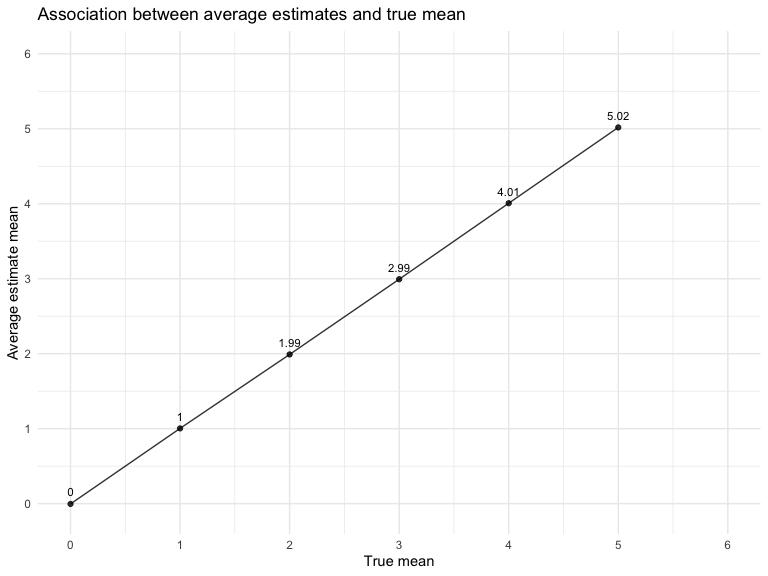
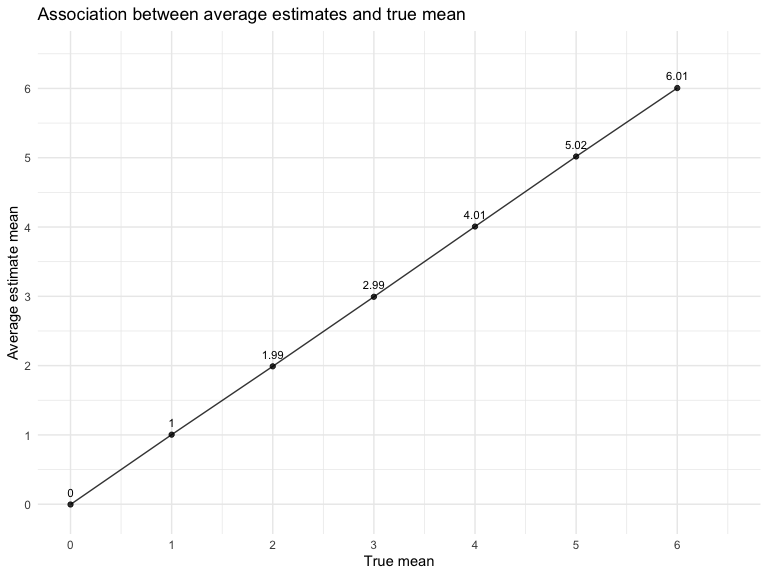
solve the issues (failure to show the whole data) by modifying the limits of scale_x_continuous() and scale_y_continuous()

diff --git a/p8105_hw5_yj2687.md b/p8105_hw5_yj2687.md
@@ -222,8 +222,8 @@ sim_result %>%
   geom_point(alpha = 0.8) +
   geom_line(alpha = 0.8) +
   geom_text(aes(label = round(avg_estimate,2)), vjust = -1, size = 3) + 
-  scale_x_continuous(limits = c(0,6), breaks = seq(0,6,1)) +
-  scale_y_continuous(limits = c(-0.1,6), breaks = seq(0,6,1)) +
+  scale_x_continuous(limits = c(0,6.5), breaks = seq(0,6,1)) +
+  scale_y_continuous(limits = c(-0.1,6.5), breaks = seq(0,6,1)) +
   labs(
     title = "Association between average estimates and true mean",
     x = "True mean",
@@ -250,8 +250,8 @@ sim_result %>%
   geom_point(data = sim_rej, aes(color = "Rejected samples")) +
   geom_line(data = sim_rej, aes(x = mu, y = avg_estimate, color = "Rejected samples")) + 
   geom_text(data = sim_rej, aes(label = round(avg_estimate,2), color = "Rejected samples"), vjust = -1, size = 3) + 
-  scale_x_continuous(limits = c(0,6), breaks = seq(0,6,1)) +
-  scale_y_continuous(limits = c(-0.5,6), breaks = seq(0,6,1)) +
+  scale_x_continuous(limits = c(0,6.5), breaks = seq(0,6,1)) +
+  scale_y_continuous(limits = c(-0.5,6.5), breaks = seq(0,6,1)) +
   labs(x = "True mean",
        y = "Average estimate mean",
        title = "Association between average estimates and true mean",
